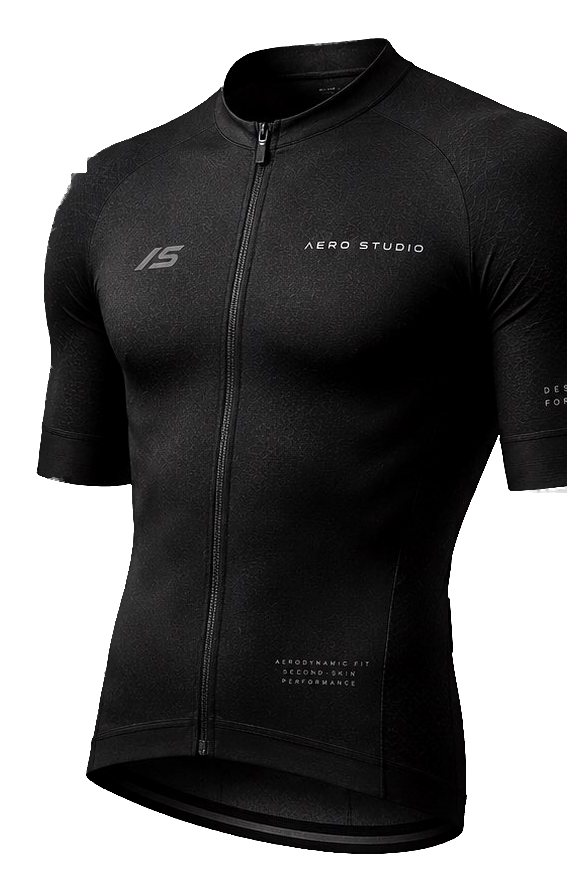
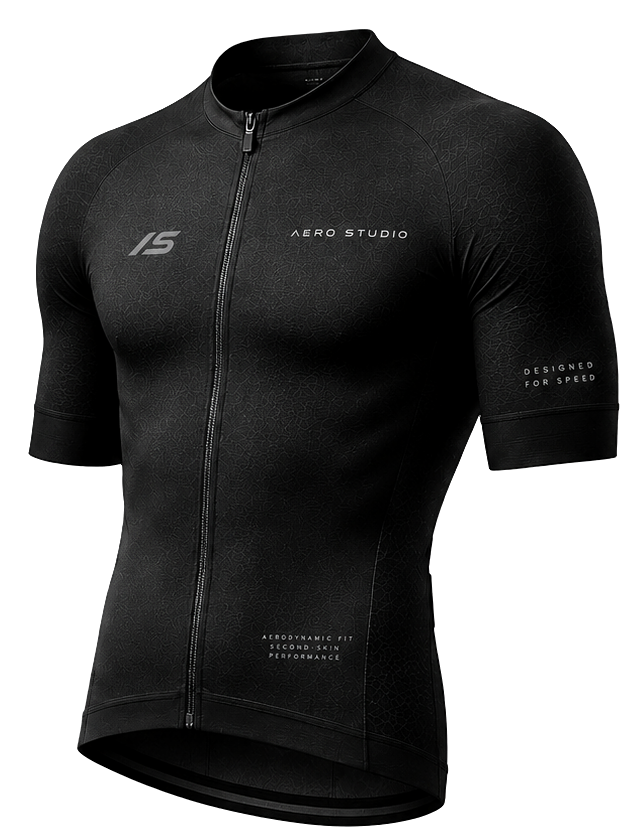
Restore hero and update kit product images

diff --git a/src/App.jsx b/src/App.jsx
@@ -3,7 +3,7 @@ import { motion, useScroll, useTransform } from 'framer-motion'
 import { Activity, CircleDot, Feather, Gauge, ShieldCheck, Wind } from 'lucide-react'
 
 const assets = {
-  hero: '/assets/hero-first-page.png',
+  hero: '/assets/hero-cyclist-editorial.png',
   navMark: '/assets/aero-mark-pdf.png',
   riderBack: '/assets/rider-back.jpeg',
   fabric: '/assets/fabric-detail.jpeg',
